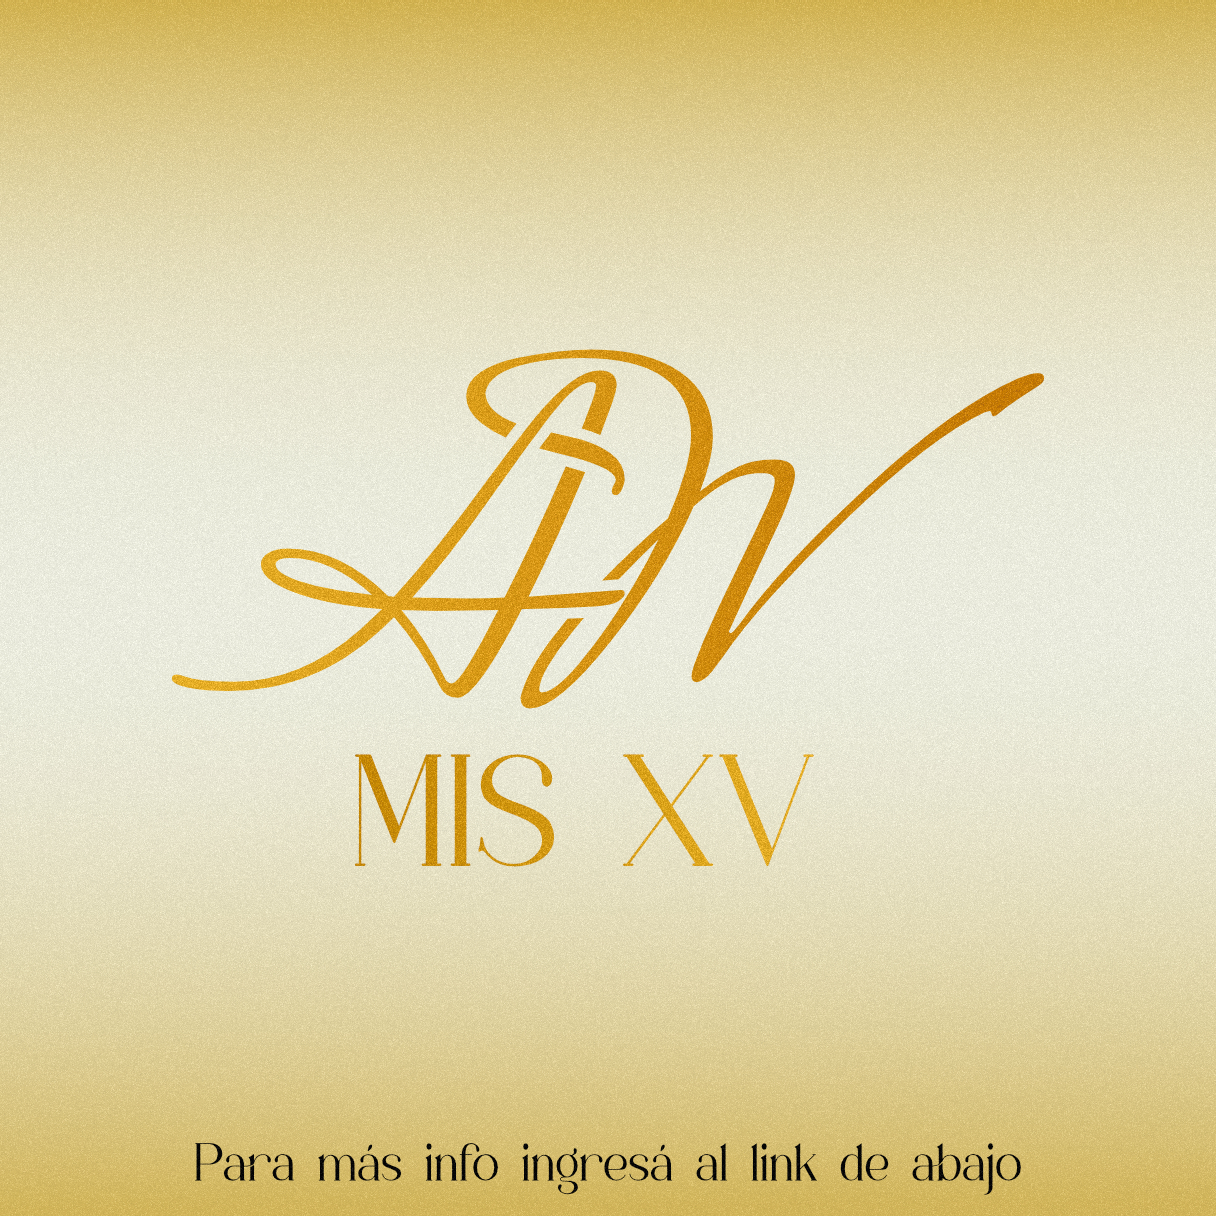
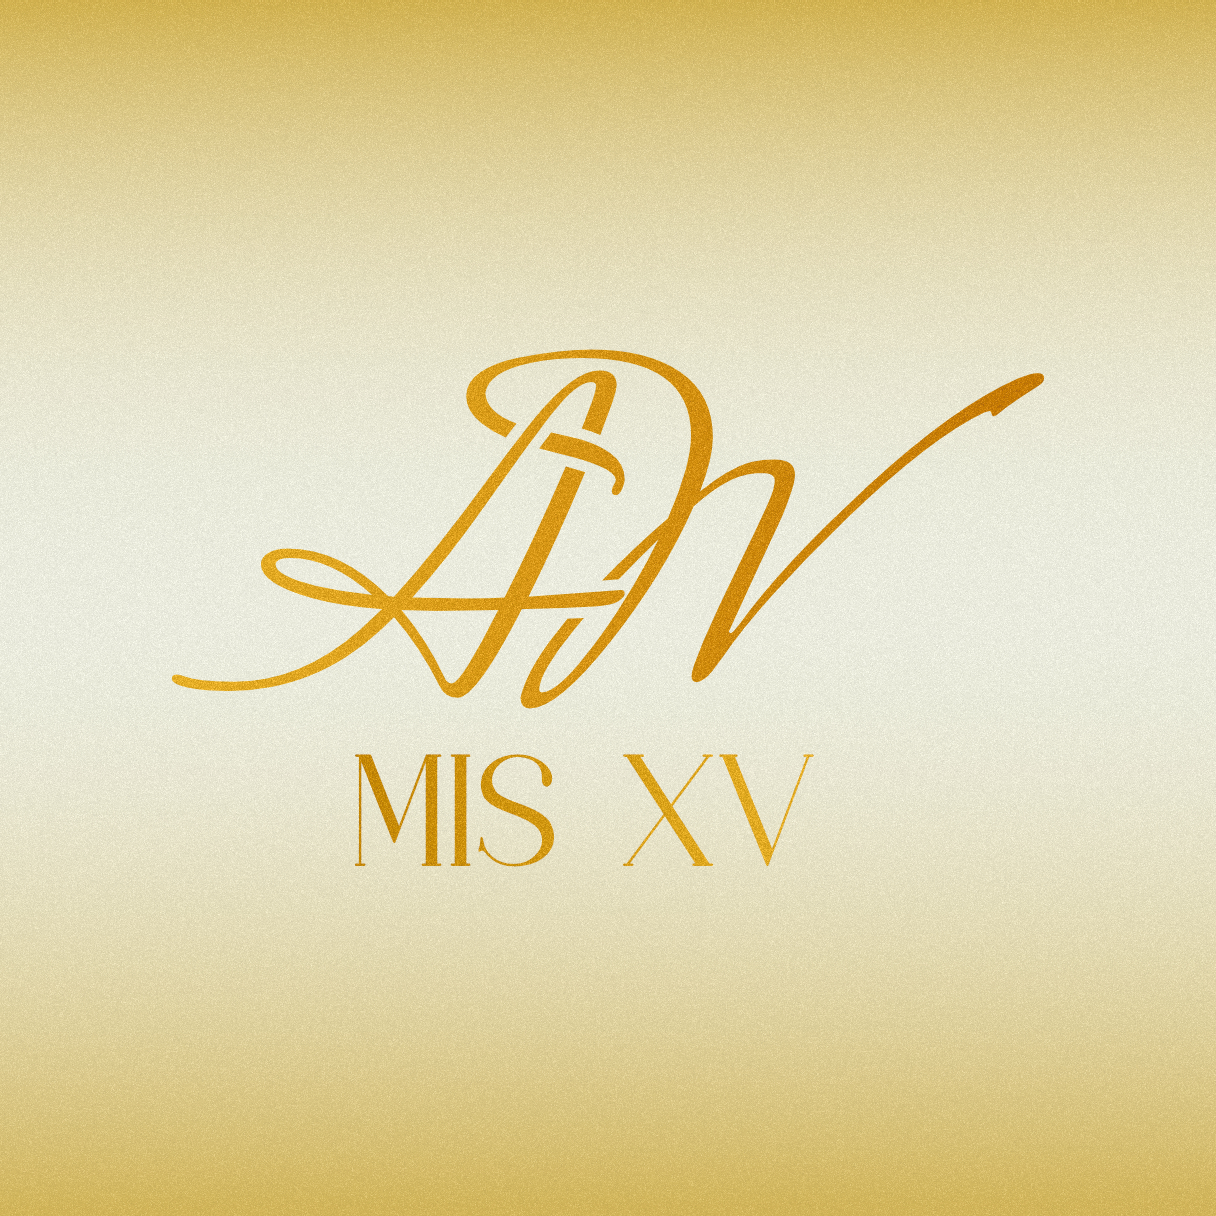
cambios

Changed region(s): [[0.1562, 0.9375, 0.7188, 0.9688], [0.75, 0.9375, 0.8438, 0.9688]]

diff --git a/index.html b/index.html
@@ -220,7 +220,7 @@
   <button class="boton-dorado" id="btnMusica">Escuchar Música</button>
 
   <div class="contenido" style="margin-bottom: 100px;">
-    <h5>He comprendido que tener cerca a las personas que quiero basta para ser feliz, el tiempo seguirá su curso y estas palabras se perderán, pero el recuerdo de tu rescencia conmigo esta noche quedará conmigo para siempre.</h5>
+    <h5>He comprendido que tener cerca a las personas que quiero basta para ser feliz, el tiempo seguirá su curso y estas palabras se perderán, pero el recuerdo de tu prescencia conmigo esta noche quedará conmigo para siempre.</h5>
   </div>
 
   <div style="color:black; margin-bottom:100px;">
@@ -260,7 +260,6 @@
   CI: 6794310 <br>
   Entidad: ueno bank <br>
   N° de cuenta: 6192567126 <br>
-  Moneda: GS <br>
   Alias: CI 6794310 <br></h3>
 
   

diff --git a/hoteles.html b/hoteles.html
@@ -242,6 +242,11 @@
       <button class="boton-dorado">Contacto 2</button>
     </a>
 
+    <h3 style="margin-bottom: 50px; margin-top: 10px;">Hotel 7</h3>
+    <a target="_blank" href="https://wa.me/595984554617">
+      <button class="boton-dorado">Contacto</button>
+    </a>
+
   <!-- FADE -->
   <script>
     const elementos = document.querySelectorAll('body *');
